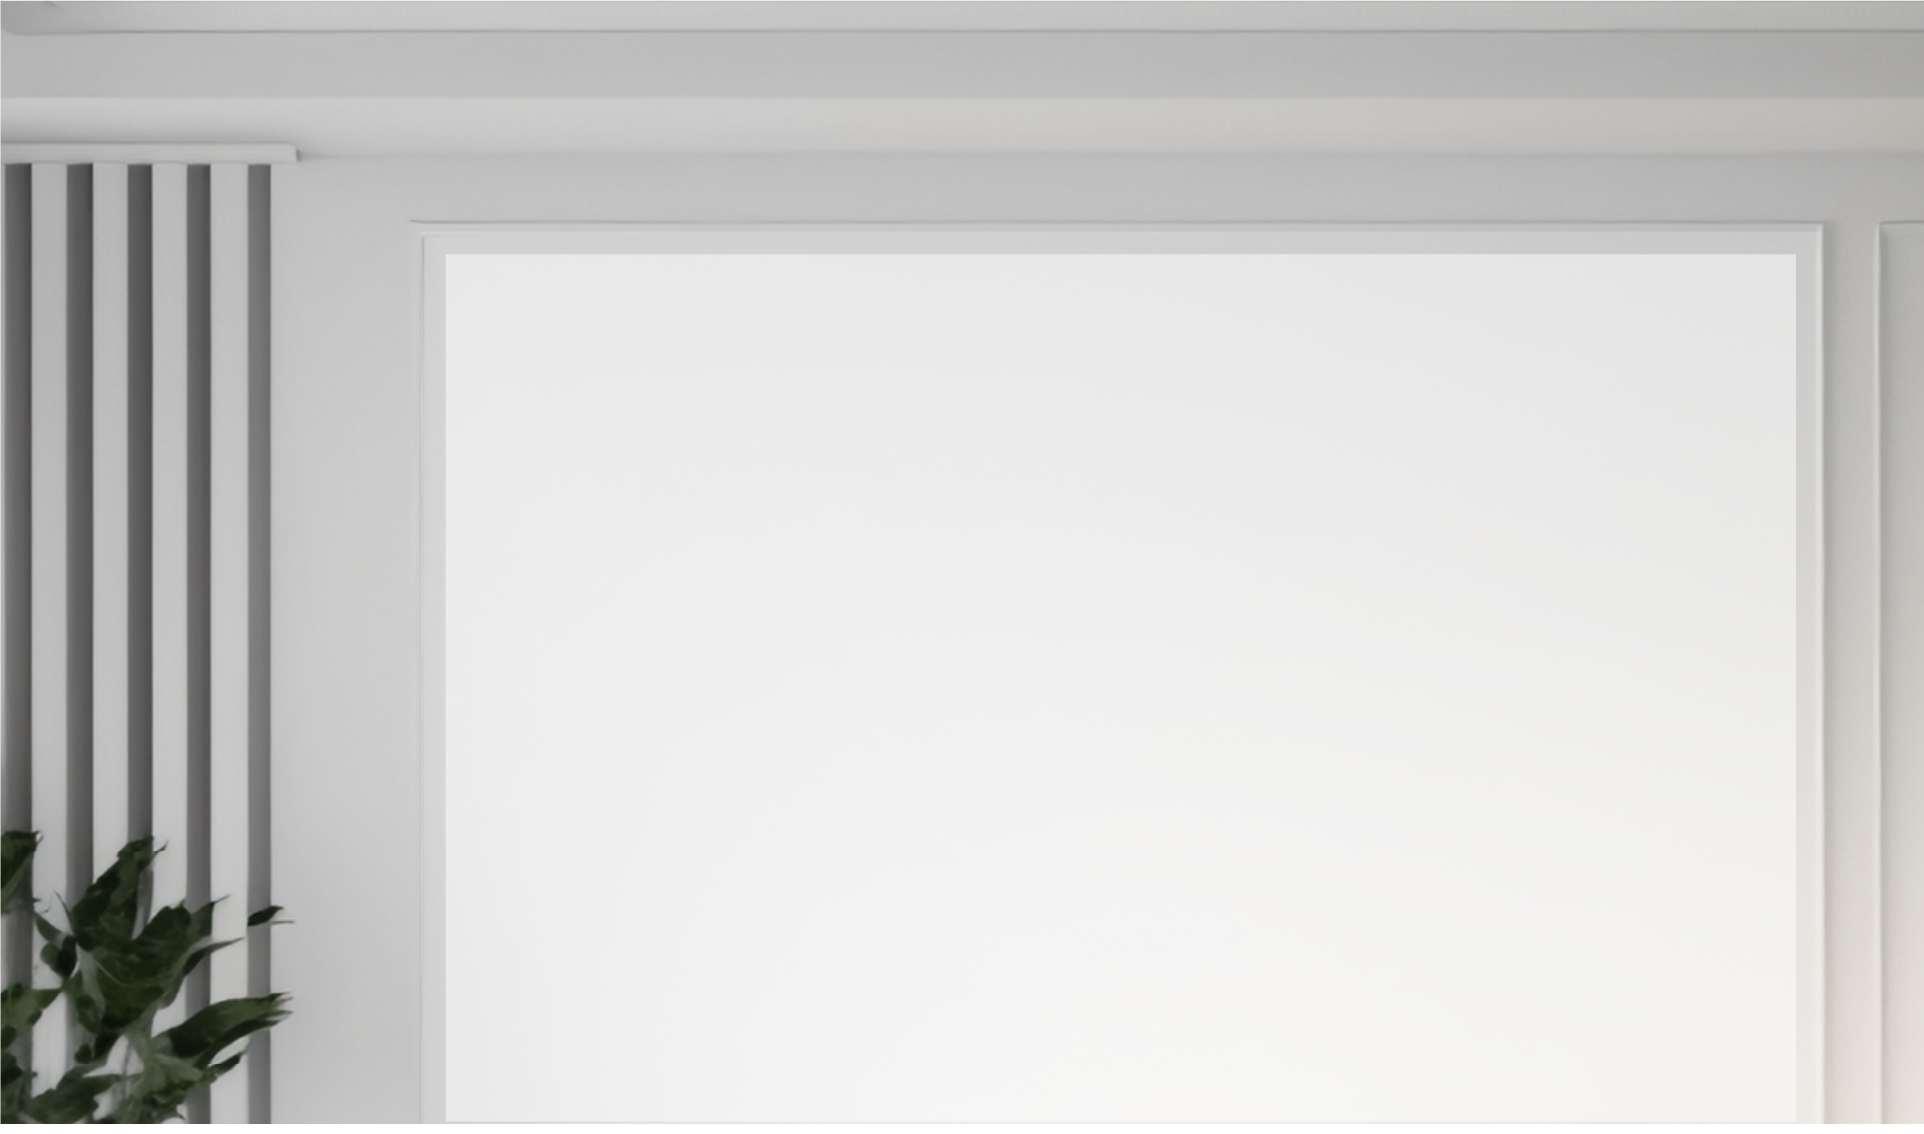
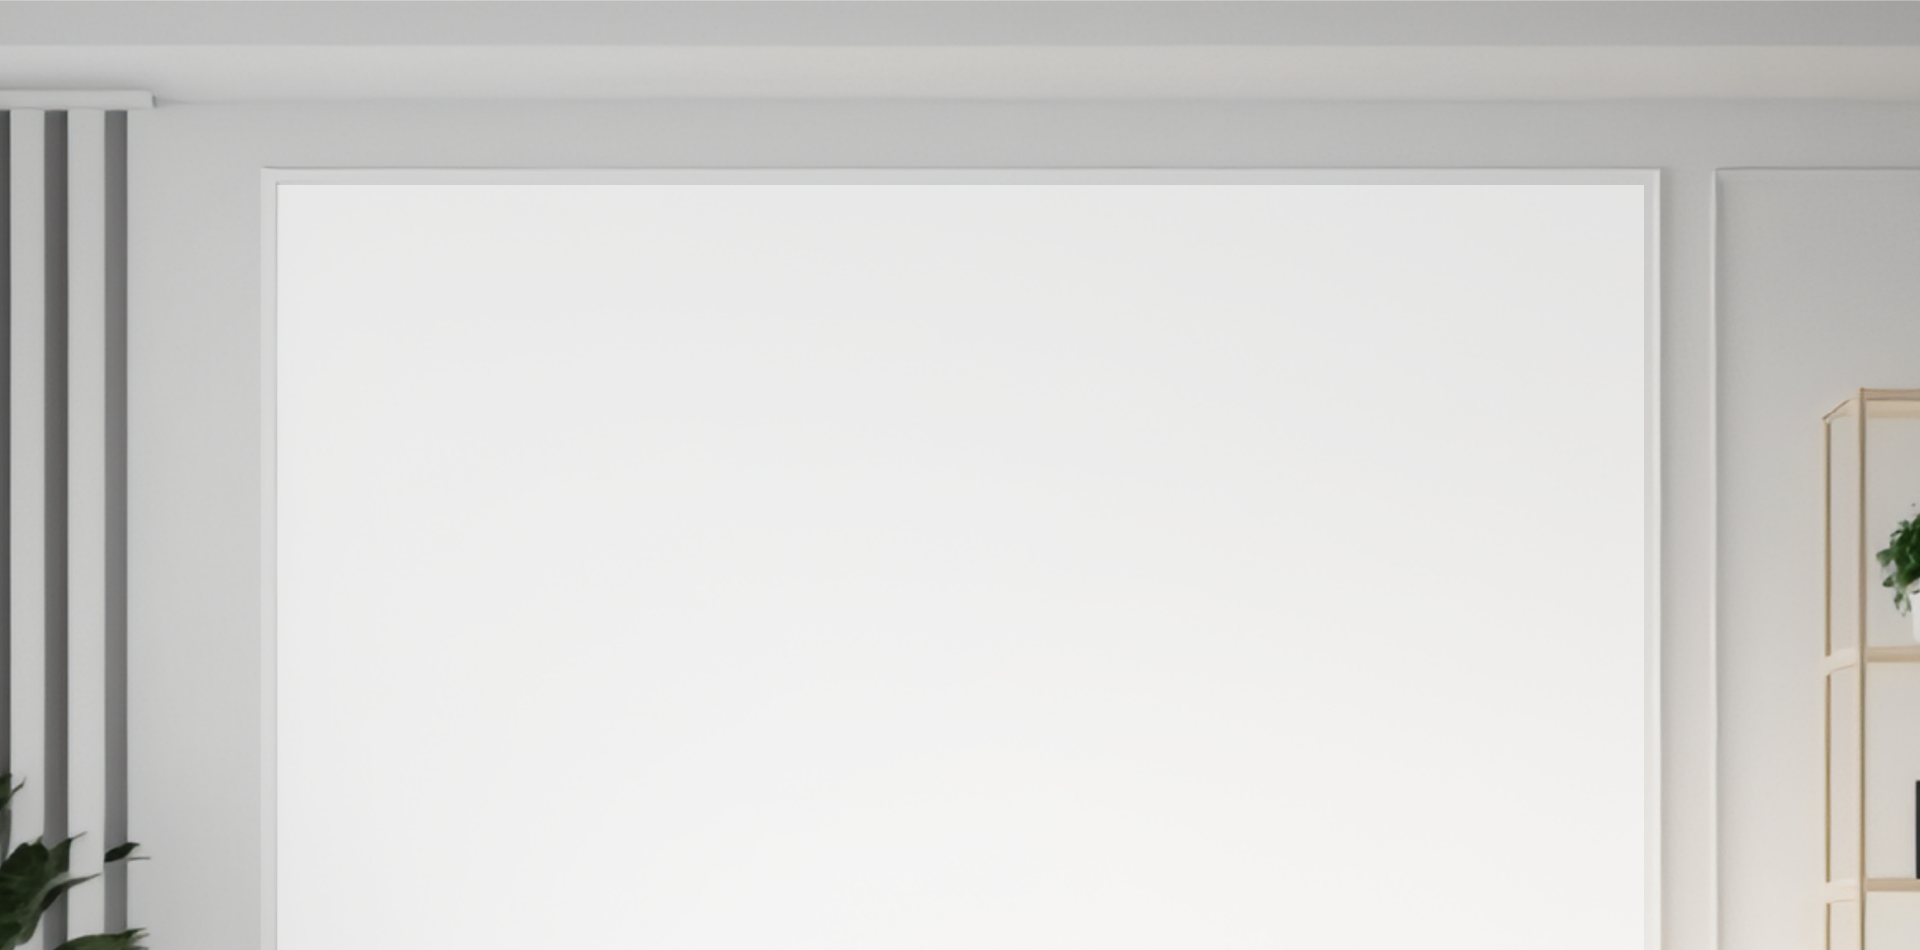
ajuste

Changed region(s): [[0.0, 0.0611, 1.0, 1.0], [0.0, 0.0, 0.0312, 0.0305]]

diff --git a/7_forros/css/custom.css b/7_forros/css/custom.css
@@ -5,10 +5,12 @@ h4 {
   color: #66a1a1;
   font-weight: bold;
 }
-p{
+
+p {
   font-size: 20px;
   word-wrap: break-word;
 }
+
 h2 {
   font-size: 38px;
   margin-bottom: -30px;
@@ -21,20 +23,24 @@ h3 {
 h4 {
   font-size: 20px;
 }
+
 .titulo_normal {
   color: #000;
 }
+
 .bg-360 {
   background-color: rgba(0, 0, 0, 0.4);
   color: #fff;
   padding-bottom: 30px;
 }
+
 .bloco-1 {
   background: url(../imgs/bg1.png);
-  background-size: 100% 100%;
+  background-size: cover;
   background-repeat: no-repeat;
   margin-top: 80px;
 }
+
 .panel-group {
   margin: 50px;
 }
@@ -42,27 +48,21 @@ h4 {
 .grupo-imprimir button.bto-imprimir {
   margin-top: 6px;
 }
+
 .b1 {
-  background-color: #fff;
+  background-color: #e6e6e6;
   max-width: 1300px;
   padding: 20px 0;
   padding-bottom: 80px;
   margin: auto;
-  box-shadow: 10px 10px 0px 0px rgba(255,255,255,0.75);
--webkit-box-shadow: 10px 10px 0px 0px rgba(255,255,255,0.75);
--moz-box-shadow: 10px 10px 0px 0px rgba(255,255,255,0.75);
+  box-shadow: 10px 10px 0px 0px rgba(230, 230, 230, 0.75);
+  -webkit-box-shadow: 10px 10px 0px 0px rgba(230, 230, 230, 0.75);
+  -moz-box-shadow: 10px 10px 0px 0px rgba(230, 230, 230, 0.75);
 }
 
 .b1 .container {
   max-width: 1000px;
 }
-
-
-
-
-
-
-
 
 .collapsed {
   content: "";
@@ -72,11 +72,13 @@ h4 {
   margin-right: 10px;
   background-position: right;
 }
+
 .panel-group {
   color: #000;
   border-radius: 20px;
   margin: 50px 0;
 }
+
 .panel-body {
   background-color: #fff;
   padding: 15px 30px;
@@ -90,6 +92,7 @@ h4 {
 .panel-default {
   border-color: #bd3d33;
 }
+
 .panel-heading {
   background-color: #bd3d33 !important;
   padding: 10px 10px !important;
@@ -123,9 +126,11 @@ h4 {
   background-repeat: no-repeat;
   background-attachment: fixed;
 }
-.titulo-claro{
+
+.titulo-claro {
   color: #fff;
 }
+
 .bloco-3 {
   background: url("../imgs/bg2.png");
   background-size: cover;
@@ -163,12 +168,13 @@ h4 {
   height: 15px;
 }
 
-.parallax1{
+.parallax1 {
   min-height: 400px;
   background: transparent;
   width: 100% !important;
 }
-.parallax2{
+
+.parallax2 {
   min-height: 400px;
   background: transparent;
   width: 100% !important;
@@ -280,18 +286,21 @@ li {
   border: none;
   transition: ease-in;
 }
+
 .botao-fechar {
   background: url("../imgs/modal_fechar.png");
   width: 238px;
   height: 76px;
   border: none;
 }
+
 .botao-fechar:hover {
   background: url("../imgs/modal_fechar_hover.png");
   width: 238px;
   height: 76px;
   border: none;
 }
+
 .modal-body {
   background: url(../imgs/bg_modal.png);
   background-size: 100% 100%;
@@ -337,25 +346,31 @@ button.close {
     background: none;
     border: none;
   }
+
   .btn {
     width: 171px;
     height: 182px;
     border: none;
   }
+
   .bt-1 {
     background: url("../imgs/mob_painel_bt1.png") no-repeat;
     width: 332px;
     height: 171px;
   }
+
   .bt-2 {
     background: url("../imgs/mob_painel_bt2.png") no-repeat;
   }
+
   .bt-3 {
     background: url("../imgs/mob_painel_bt3.png") no-repeat;
   }
+
   .bt-4 {
     background: url("../imgs/mob_painel_bt4.png") no-repeat;
   }
+
   .bt-5 {
     background: url("../imgs/mob_painel_bt5.png") no-repeat;
   }
@@ -365,20 +380,20 @@ button.close {
     width: 332px;
     height: 171px;
   }
- .bt-2:hover {
+
+  .bt-2:hover {
     background: url("../imgs/mob_painel_bt2_hover.png") no-repeat;
   }
+
   .bt-3:hover {
     background: url("../imgs/mob_painel_bt3_hover.png") no-repeat;
   }
+
   .bt-4:hover {
     background: url("../imgs/mob_painel_bt4_hover.png") no-repeat;
   }
+
   .bt-5:hover {
     background: url("../imgs/mob_painel_bt5_hover.png") no-repeat;
   }
-  .bloco-1 {
-    background: #fff;
-  }
 }
-
